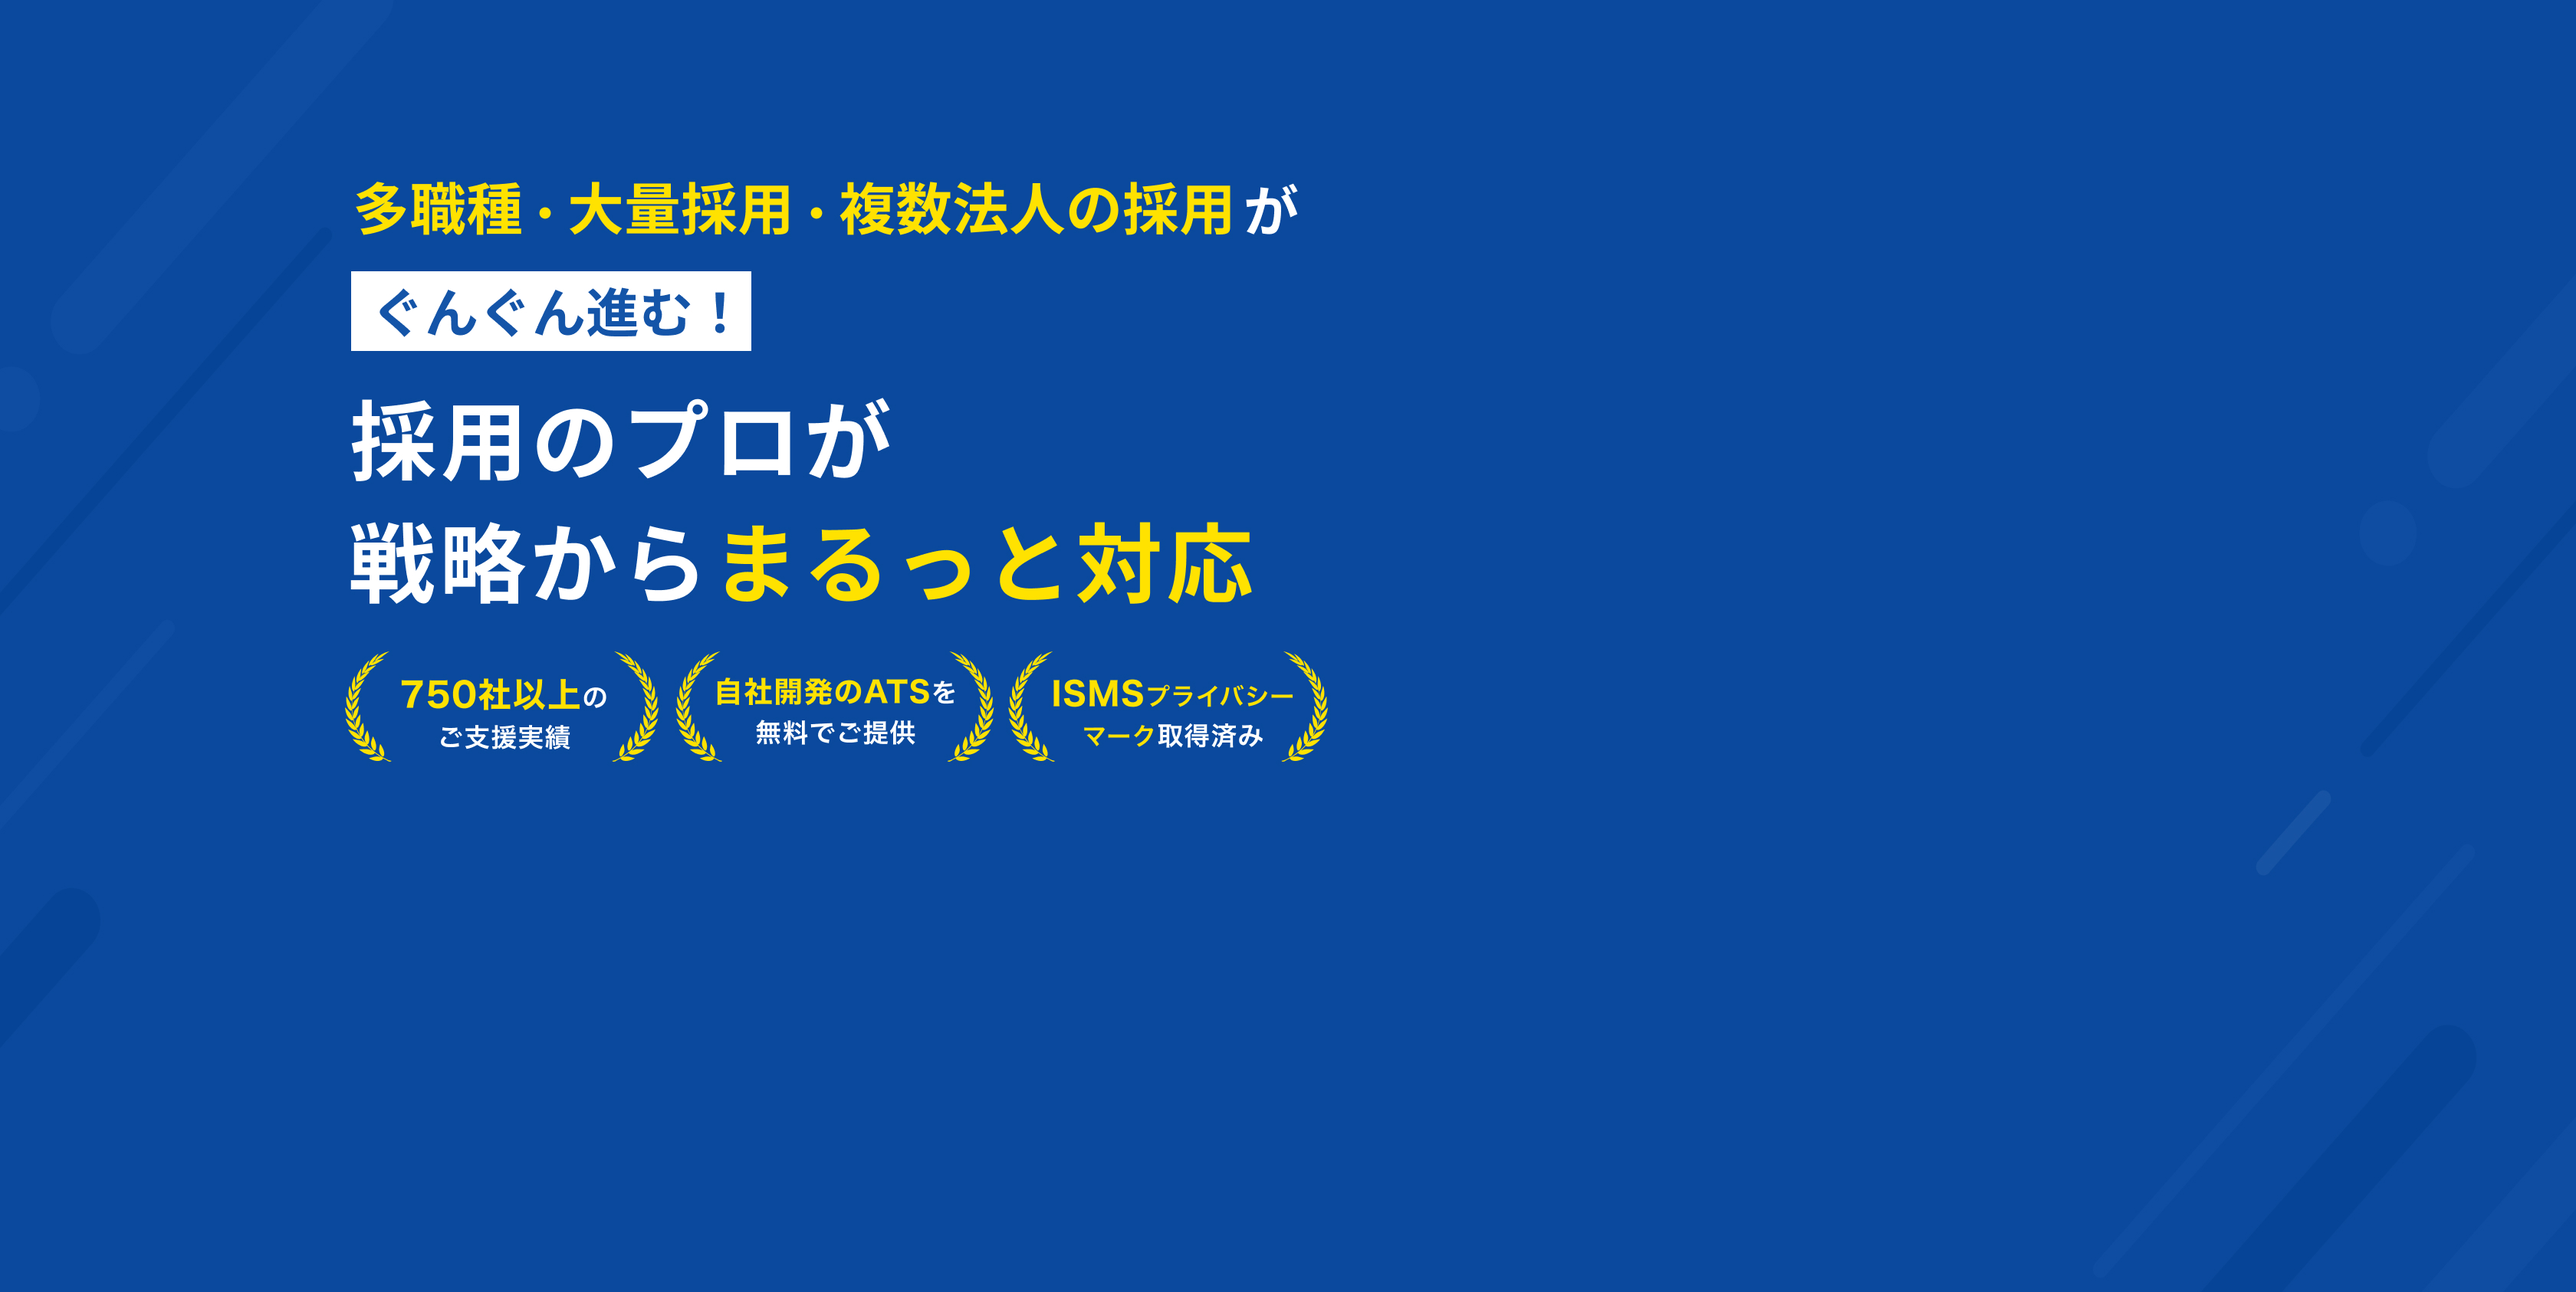
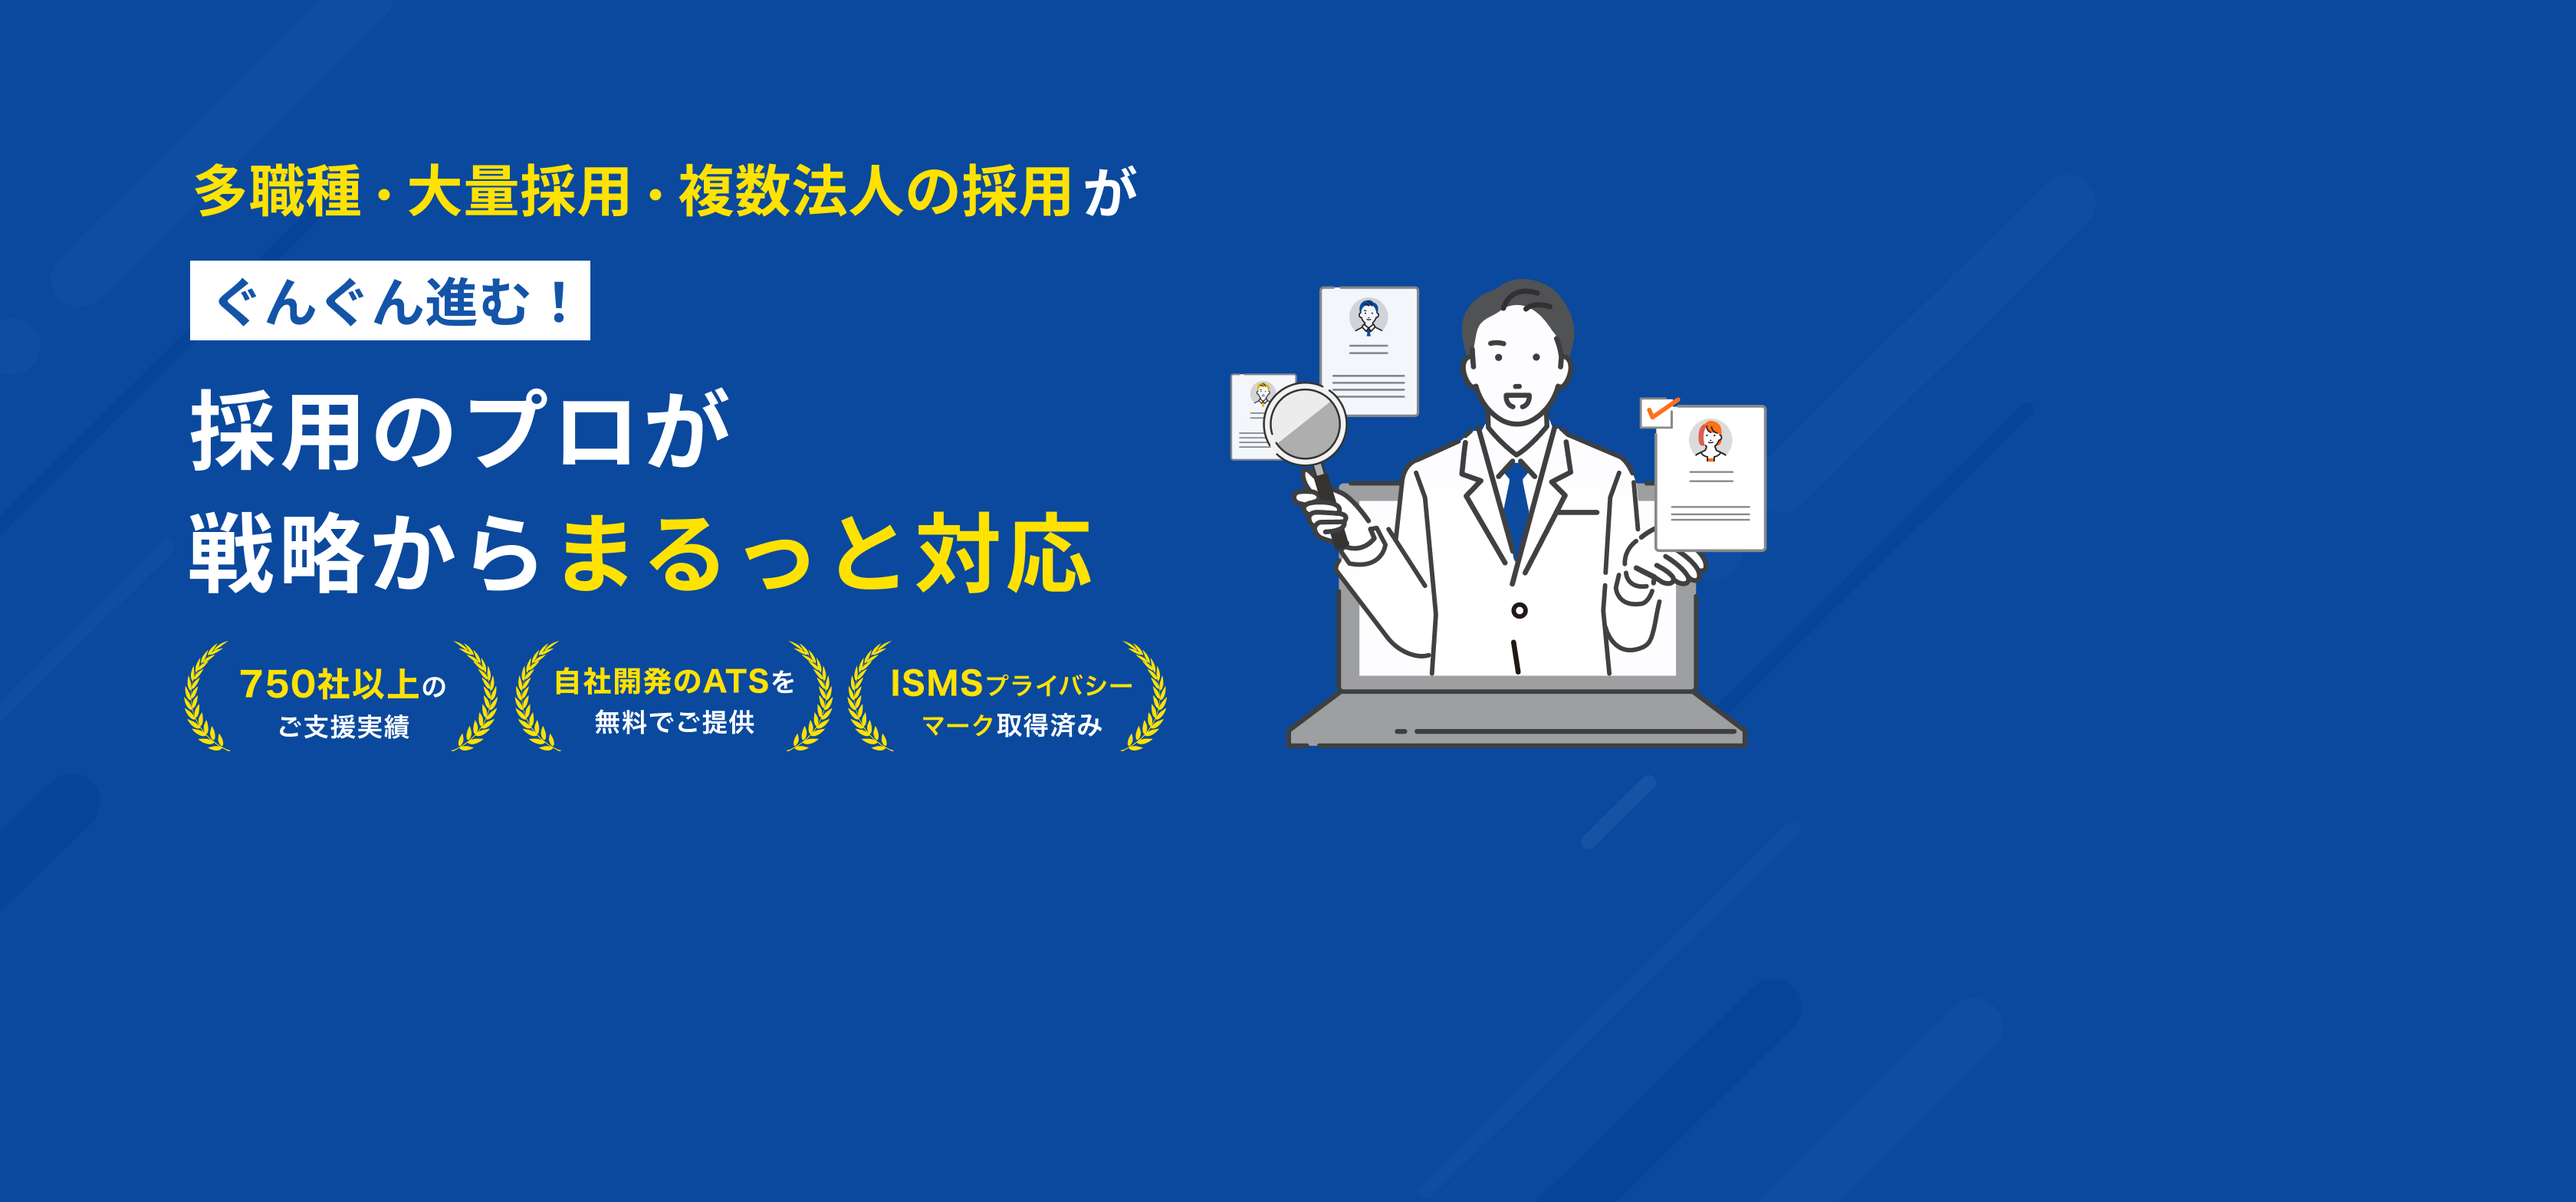
あ

Changed region(s): [[0.0625, 0.2188, 0.6875, 0.625], [0.0625, 0.125, 0.5, 0.2812]]

diff --git a/public/assets/css/object/style.css b/public/assets/css/object/style.css
@@ -10,6 +10,26 @@
   width: 100%;
 }
 
+.mv_form__header {
+  background: linear-gradient(135deg, #0a499d 0%, #1565c0 100%);
+  padding: 1.2rem 1rem;
+  text-align: center;
+}
+
+.mv_form__title {
+  color: #fff;
+  font-size: 1.3rem;
+  font-weight: 700;
+  margin-bottom: 0.5rem;
+  letter-spacing: 0.05em;
+}
+
+.mv_form__subtitle {
+  color: rgba(255, 255, 255, 0.9);
+  font-size: 0.85rem;
+  line-height: 1.5;
+}
+
 /* cb-header
 ============================ */
 .cb-header {
@@ -140,7 +160,7 @@
 ============================ */
 .cb-fv__logo {
   position: absolute;
-  bottom: 14%;
+  bottom: 14vh;
   left: 0;
 }
 
@@ -156,15 +176,8 @@
 .cb-fv__logo-item {
   min-width: 100px;
   width: 100%;
-  margin-right: 6.4px;
-  margin-right: 0.4rem;
-  border-radius: 3.2px;
-  border-radius: 0.2rem;
-  overflow: hidden;
-  margin-bottom: 8px;
+  background-color: white;
   margin-bottom: 0.5rem;
-  box-shadow: 0 0 10px rgb(0 0 0 / 10%);
-  box-shadow: 0 0 0.625rem rgb(0 0 0 / 10%);
 }
 
 .cb-fv__logo-item img {
@@ -1964,15 +1977,16 @@ letter-spacing: 0.1em;
   .mv_form {
     display: block;
     position: absolute;
-    top: 48%;
-    right: 15%;
+    top: 50%;
+    right: 0%;
     transform: translateY(-50%);
-    width: 26%;
-    box-shadow: 0 8px 20px rgba(0, 0, 0, 0.2);
-    z-index: 2;
-    max-height: 73%;
+    width: 360px;
+    max-width: 26%;
+    z-index: 10;
+    max-height: 100%;
     overflow-y: auto;
-    -webkit-overflow-scrolling: touch; /* SPでスムーズスクロール */
+    -webkit-overflow-scrolling: touch;
+    background-color: #fff;
   }
 
   .mv_form::-webkit-scrollbar {
@@ -1983,6 +1997,26 @@ letter-spacing: 0.1em;
     border-radius: 3px;
   }
 
+  .mv_form__header {
+    background: linear-gradient(135deg, #000000 0%, #000000 100%);
+    padding: 1rem 0.8rem;
+    text-align: center;
+  }
+
+  .mv_form__title {
+    color: #fff;
+    font-size: 1.1rem;
+    font-weight: 700;
+    margin-bottom: 0.4rem;
+    letter-spacing: 0.05em;
+  }
+
+  .mv_form__subtitle {
+    color: rgba(255, 255, 255, 0.9);
+    font-size: 0.75rem;
+    line-height: 1.4;
+  }
+
   .form_area {}
 
 
@@ -1991,37 +2025,62 @@ letter-spacing: 0.1em;
   }
 
   .mv_form .hbspt-form {
-    border-radius: 0rem;
+    border-radius: 0 0 8px 8px;
     width: 100%;
     border: 0rem solid gainsboro;
-    padding: 1.5rem;
+    padding: 1rem 1.2rem 1.5rem;
   }
 
   .mv_form .hbspt-form .hs-fieldtype-textarea > label,
   .mv_form .hbspt-form .hs-fieldtype-text > label,
   .mv_form .hbspt-form .hs-fieldtype-phonenumber > label,
-  .mv_form.hbspt-form .hs-fieldtype-select > label {
-    font-size: 1rem;
+  .mv_form .hbspt-form .hs-fieldtype-select > label {
+    font-size: 0.85rem;
+    margin-bottom: 0.3rem;
   }
 
-  .mv_form .hbspt-form .hs-fieldtype-text input[type="text"], {
-    padding: 0.9rem;
+  .mv_form .hbspt-form .hs-fieldtype-text input[type="text"],
+  .mv_form .hbspt-form .hs-fieldtype-text input[type="email"],
+  .mv_form .hbspt-form .hs-fieldtype-text input[type="tel"],
+  .mv_form .hbspt-form .hs-fieldtype-phonenumber input[type="tel"],
+  .mv_form .hbspt-form .hs-fieldtype-select select {
+    padding: 0.6rem 0.8rem;
+    font-size: 0.9rem;
   }
 
   .mv_form .hbspt-form .inputs-list {
-    font-size: 0.8rem;
-    line-height: 2;
-    margin-top: 0.3rem;
+    font-size: 0.75rem;
+    line-height: 1.8;
+    margin-top: 0.2rem;
+    margin-bottom: 0.5rem;
+  }
+
+  .mv_form .hbspt-form .form-columns-1,
+  .mv_form .hbspt-form .form-columns-2 {
+    margin-bottom: 0.6rem;
   }
 
   .mv_form .hbspt-form .hs_submit {
-    margin-bottom: 2vw;
+    margin-bottom: 0;
+  }
+
+  .mv_form .hbspt-form .hs_submit input[type="submit"] {
+    width: 100%;
+    padding: 0.8rem 1rem;
+    font-size: 1rem;
+    margin-top: 1rem;
+    border-radius: 5rem;
+  }
 }
 
-.mv_form .hbspt-form .hs-fieldtype-select > label {
-  font-size: 1rem;
+/* 画面幅1000px以下でMVフォームを非表示 */
+@media only screen and (max-width: 1000px) {
+  .mv_form {
+    display: none;
+  }
 }
 
+@media only screen and (min-width: 768px) {
   /* cb-header
 ============================ */
   .cb-header {
@@ -2152,11 +2211,11 @@ letter-spacing: 0.1em;
 }
 
 .cb-fv__cta-wrap {
-  width: 36%;
+  width: 37%;
   display: flex;
   position: absolute;
-  top: 63%;
-  left: 22%;
+  top: 66%;
+  left: 16%;
   transform: translate(-50%, -50%);
   align-items: center;
 }
@@ -2200,7 +2259,7 @@ letter-spacing: 0.1em;
     width: 100vw;
     display: flex;
     position: absolute;
-    bottom: -9%;
+    bottom: -6.3vh;
     left: 50%;
     transform: translate(-50%, -50%);
   }

diff --git a/public/index.html b/public/index.html
@@ -88,6 +88,10 @@
 
           <!-- .mv_form -->
           <div class="mv_form">
+            <div class="mv_form__header">
+              <p class="mv_form__title">資料ダウンロード</p>
+              <p class="mv_form__subtitle">以下の情報を入力後、<br>資料をダウンロードできます。</p>
+            </div>
             <div class="form_area">
               <script charset="utf-8" type="text/javascript" src="//js.hsforms.net/forms/embed/v2.js"></script>
               <script>
